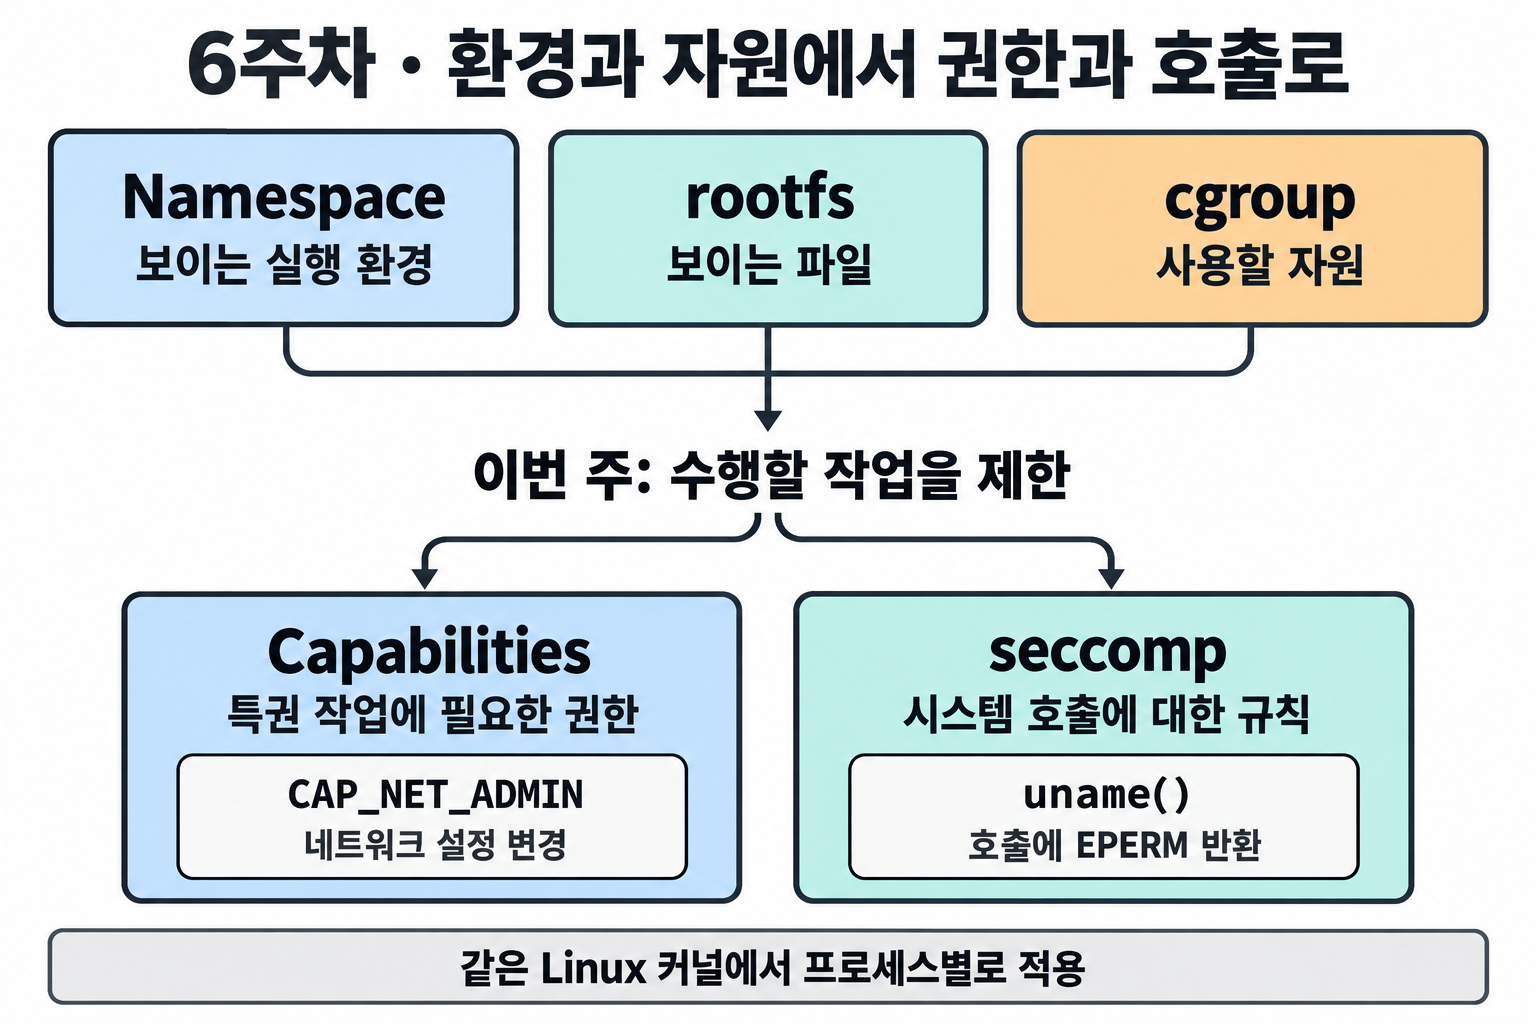
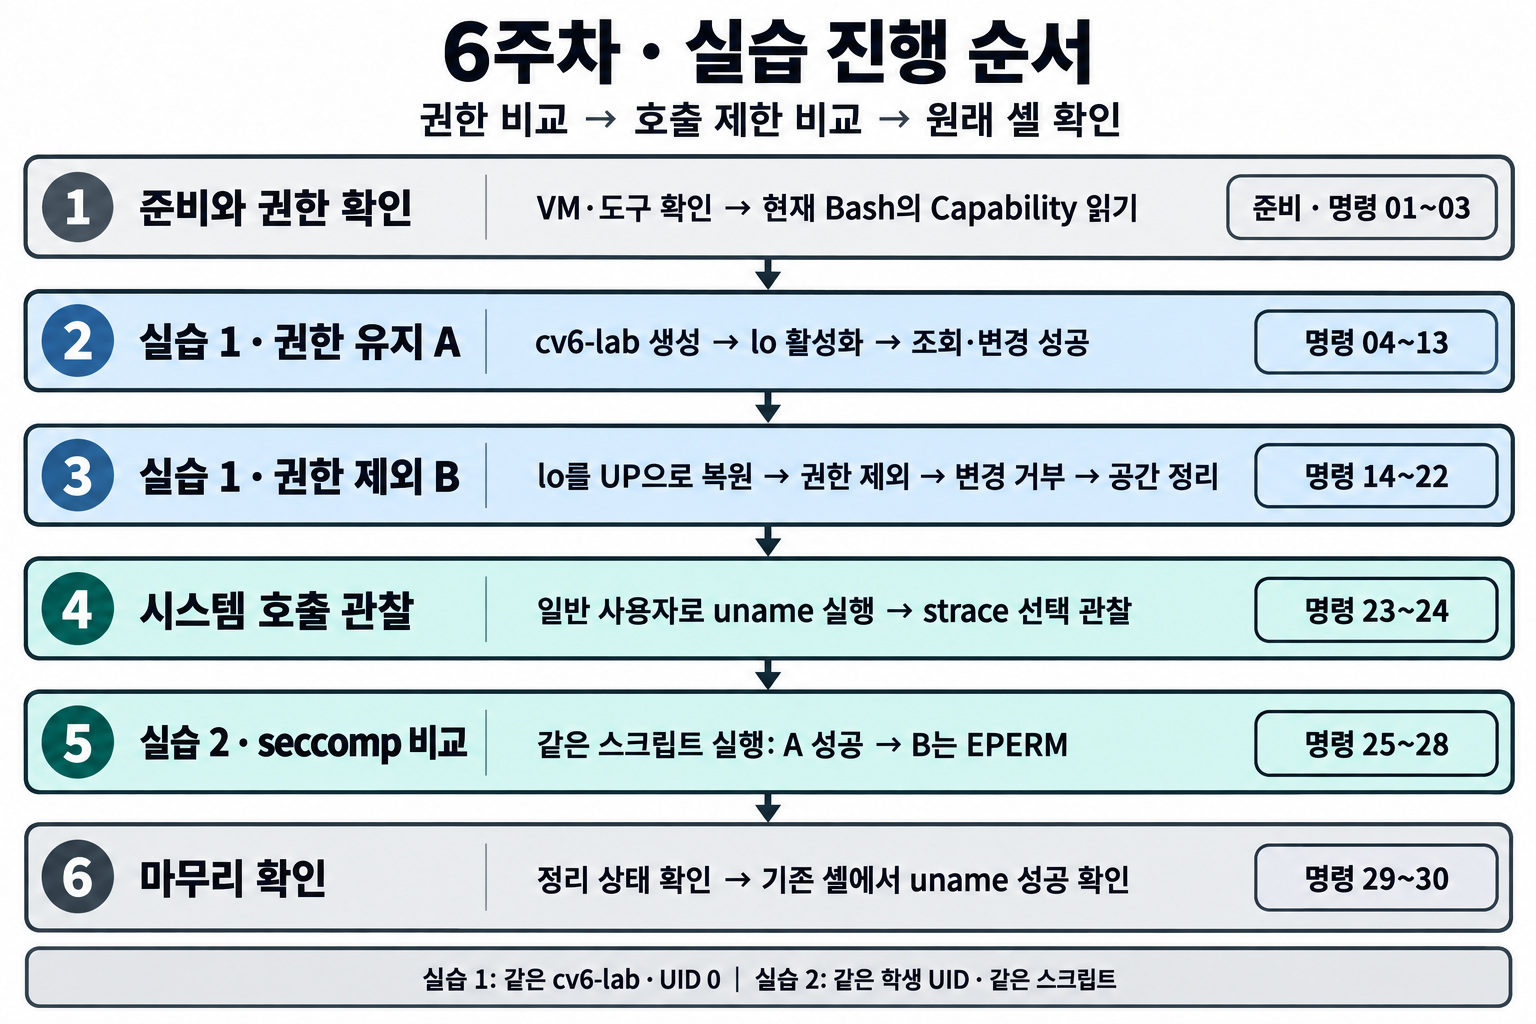
docs: show full week 06 lab sequence in opening diagram

diff --git a/week06/README.md b/week06/README.md
@@ -3,11 +3,11 @@
 [전체 주차 목록](https://github.com/choong-syu/cloud-virtualization) · [5주차 실습](https://github.com/choong-syu/cloud-virtualization/blob/main/week05/README.md)
 
 
-### 오늘 관찰할 구조
+### 오늘의 실습 진행 순서
 
-![6주차 전체 흐름: Namespace·rootfs·cgroup에 이어 Capabilities로 특권 작업의 권한을 제한하고 seccomp로 시스템 호출을 제한](images/week06-00-overview.png)
+![6주차 실습 순서: 준비와 권한 확인, 권한 유지 A, 권한 제외 B와 네트워크 공간 정리, 시스템 호출 관찰, seccomp 비교, 기존 셸과 정리 상태 확인](images/week06-00-overview.png)
 
-**그림 읽기:** 앞선 주차에서 다룬 실행 환경·파일·자원에 이번 주의 권한과 호출 제한을 더합니다. 아래 두 칸은 서로 다른 제한의 관점입니다. 모든 시스템 호출이 관리 Capability를 요구하거나, 두 기능을 항상 함께 설정해야 한다는 뜻은 아닙니다.
+**그림 읽기:** 위에서 아래로 따라가면 이번 실습의 전체 순서입니다. 먼저 현재 권한을 읽고, 실습 1에서는 같은 `cv6-lab`과 UID 0으로 권한 유지·제외 결과를 비교합니다. B를 시작하기 전에 `lo`를 `UP`으로 복원하고, 비교를 마치면 네트워크 공간을 정리합니다. 이어서 일반 사용자의 시스템 호출을 관찰하고, 실습 2에서는 같은 학생 UID와 스크립트에 `uname` 호출 제한을 추가해 결과를 비교합니다. 마지막에는 정리 상태와 기존 셸의 정상 동작을 확인합니다. 오른쪽의 명령 번호로 각 단계의 위치를 찾을 수 있습니다.
 
 ## 도입. 지난주에서 이어지는 질문
 
